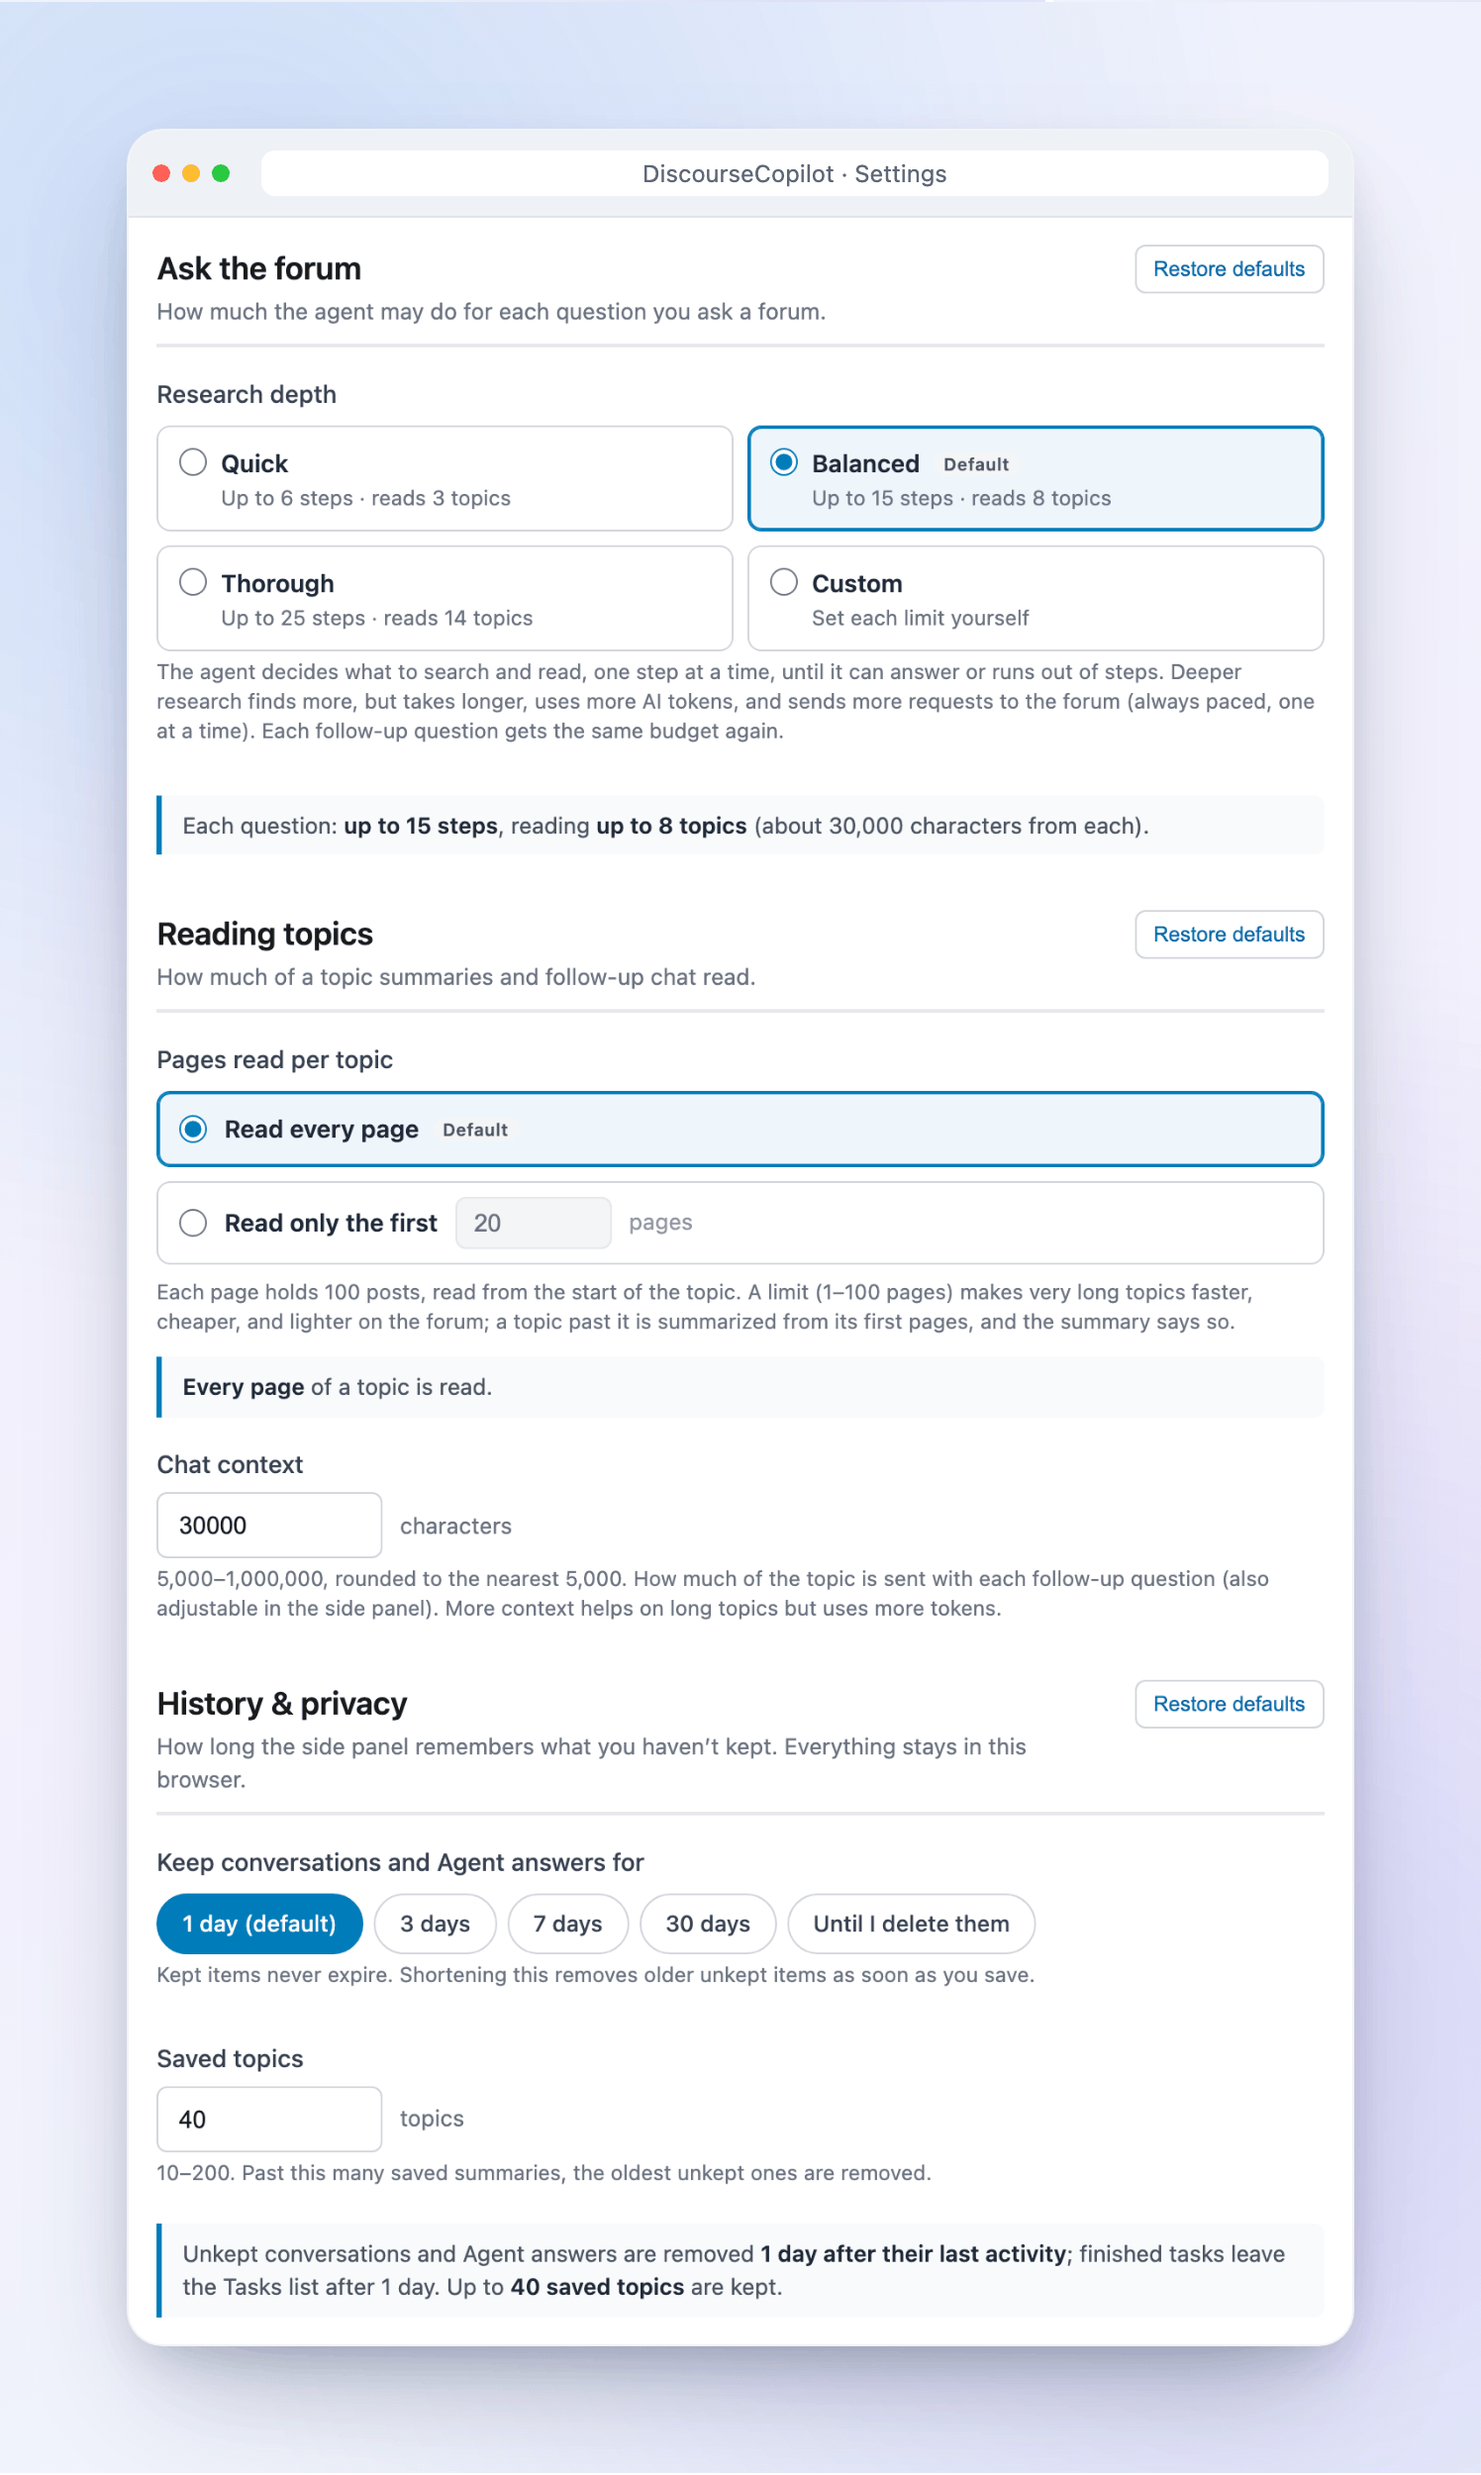
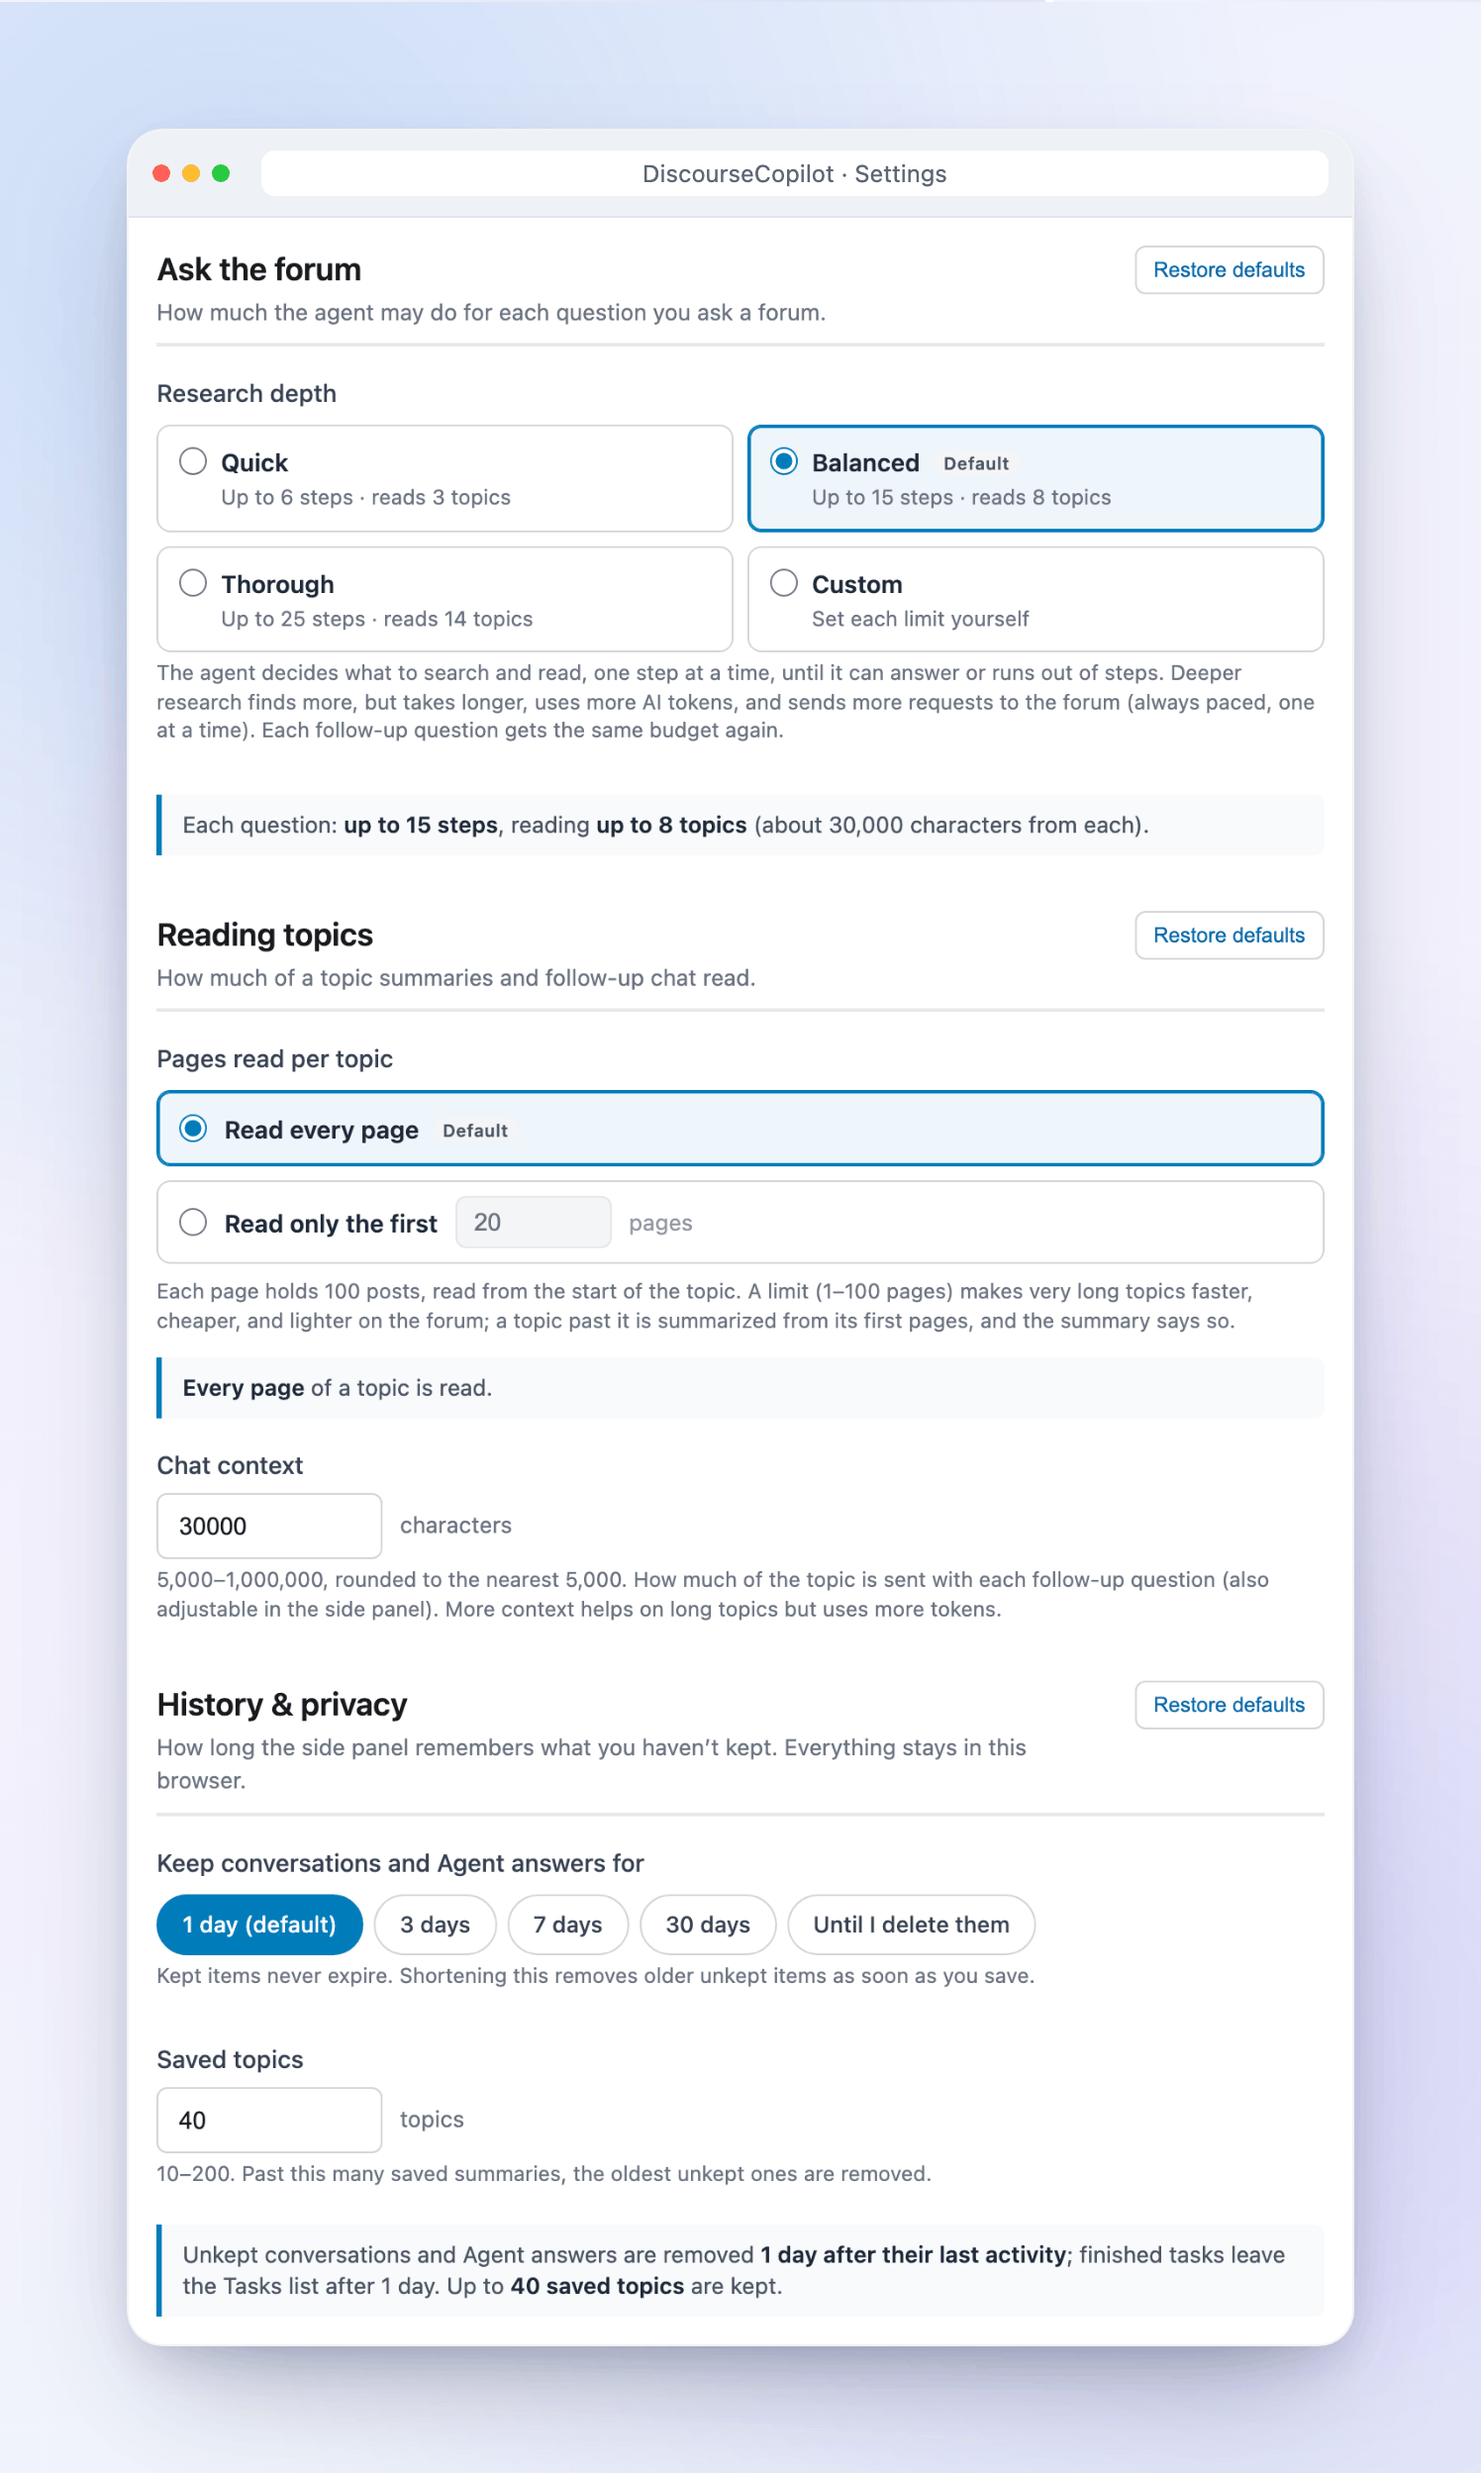
feat(setup): point to a free Gemini key from Google AI Studio
The side panel setup card and Settings → AI provider say "No API key?"
and link to aistudio.google.com/apikey; the click also switches the form
to Gemini. A note mentions the free tier's limits and that Google may use
free-tier prompts to improve its products.

diff --git a/src/settings/settings.html b/src/settings/settings.html
@@ -378,6 +378,24 @@
       margin-top: 4px;
       line-height: 1.4;
     }
+
+    .free-key-hint {
+      margin-top: 8px;
+      color: var(--s-label);
+    }
+
+    .free-key-hint.hidden {
+      display: none;
+    }
+
+    .free-key-hint a {
+      font-weight: 600;
+    }
+
+    .free-key-note {
+      display: block;
+      color: var(--s-muted);
+    }
     
     .status {
       padding: 12px 16px;
@@ -1382,6 +1400,10 @@
             <option value="deepseek">DeepSeek</option>
             <option value="lmstudio">LM Studio (Local)</option>
           </select>
+          <div id="freeKeyHint" class="help-text free-key-hint">
+            <span data-i18n="setup.freeKey.prompt">No API key?</span> <a data-i18n="setup.freeKey.link" id="freeKeyLink" href="https://aistudio.google.com/apikey" target="_blank" rel="noopener noreferrer">Get a free Gemini key from Google AI Studio</a>
+            <span class="free-key-note" data-i18n="setup.freeKey.note">The free tier has usage limits, and Google may use free-tier prompts to improve its products.</span>
+          </div>
         </div>
         
         <!-- OpenRouter Config -->
@@ -1457,7 +1479,7 @@
           <div class="form-group">
             <label for="geminiApiKey" class="step-label" data-step="2">Google Gemini <span data-i18n="settings.provider.apiKeySuffix">API Key:</span></label>
             <input type="password" id="geminiApiKey" placeholder="AIza..." autocomplete="off" spellcheck="false">
-            <div class="help-text"><span data-i18n="settings.provider.getKeyFrom">Get your API key from</span> <a href="https://aistudio.google.com/app/apikey" target="_blank" rel="noopener noreferrer" data-provider-link="gemini">Google AI Studio</a></div>
+            <div class="help-text"><span data-i18n="settings.provider.getKeyFrom">Get your API key from</span> <a href="https://aistudio.google.com/apikey" target="_blank" rel="noopener noreferrer" data-provider-link="gemini">Google AI Studio</a></div>
           </div>
           <div class="form-group">
             <label for="geminiModel" class="step-label" data-step="3" data-i18n="settings.model.label">Model:</label>

diff --git a/src/popup/popup.html b/src/popup/popup.html
@@ -120,6 +120,10 @@
             <select id="setupMoreProviders" class="setup-more-select">
               <option data-i18n="popup.setup.moreProvidersEllipsis" value="">More providers…</option>
             </select>
+            <div id="setupFreeKey" class="free-key-hint">
+              <p><span data-i18n="setup.freeKey.prompt">No API key?</span> <a data-i18n="setup.freeKey.link" id="setupFreeKeyLink" href="https://aistudio.google.com/apikey" target="_blank" rel="noopener noreferrer">Get a free Gemini key from Google AI Studio</a></p>
+              <small data-i18n="setup.freeKey.note">The free tier has usage limits, and Google may use free-tier prompts to improve its products.</small>
+            </div>
           </fieldset>
 
           <div id="setupDetails" class="setup-details hidden">

diff --git a/src/popup/popup.css b/src/popup/popup.css
@@ -2219,6 +2219,30 @@ details[open] > summary .chevron {
     font-size: 0.74rem;
 }
 
+/* "No API key?" pointer to a free Gemini key, under the provider choices. */
+.free-key-hint {
+    margin-top: 0.55rem;
+    font-size: 0.74rem;
+    line-height: 1.4;
+}
+
+.free-key-hint p {
+    margin: 0;
+    color: var(--uc-text);
+}
+
+.free-key-hint a {
+    color: var(--uc-accent-strong);
+    font-weight: 700;
+}
+
+.free-key-hint small {
+    display: block;
+    margin-top: 0.15rem;
+    color: var(--uc-muted);
+    font-size: 0.68rem;
+}
+
 .setup-card select.setup-more-select.has-value {
     border-color: var(--uc-accent);
     color: var(--uc-accent-strong);

diff --git a/src/settings/settings.js b/src/settings/settings.js
@@ -260,6 +260,15 @@ class DiscourseCopilotSettings {
       void this.provider.loadModels(this.currentProvider);
     });
 
+    // Opens AI Studio in a new tab and switches the form to Gemini, ready
+    // for the key.
+    $('freeKeyLink').addEventListener('click', () => {
+      const select = $('providerSelect');
+      if (select.value === 'gemini') return;
+      select.value = 'gemini';
+      select.dispatchEvent(new Event('change'));
+    });
+
     $('responseLanguage').addEventListener('change', event => {
       this.store.updateDraft({ responseLanguage: event.target.value });
       this.dispatch({ type: 'edited', clearStatus: true });

diff --git a/README.zh-CN.md b/README.zh-CN.md
@@ -87,7 +87,7 @@ DiscourseCopilot 的设计原则是：你看了什么，只有你自己知道。
 </details>
 
 **2. 连接一个 AI 服务商。**
-点 DiscourseCopilot 图标打开侧边栏。设置卡片会让你选服务商、粘贴 API key、选模型（会根据服务商当前提供的模型自动推荐一个，通常是又快又便宜的那种）。不知道选哪个，可以看[选择 AI 服务商](#选择-ai-服务商)。
+点 DiscourseCopilot 图标打开侧边栏。设置卡片会让你选服务商、粘贴 API key、选模型（会根据服务商当前提供的模型自动推荐一个，通常是又快又便宜的那种）。不知道选哪个，可以看[选择 AI 服务商](#选择-ai-服务商)。**没有 API key？** 去 [Google AI Studio](https://aistudio.google.com/apikey) 一分钟就能免费拿到一个 Gemini key，设置卡片里也有链接。免费额度有用量限制，Google 可能会用免费版的请求内容改进其产品。
 
 **3. 打开一个论坛帖子，授权访问，然后点“总结贴文”。**
 打开任意 Discourse 论坛的帖子（如果需要登录，先登录），点 DiscourseCopilot 图标。第一次在某个论坛使用时，侧边栏会显示 **在 *论坛名* 上启用 DiscourseCopilot**：点 **允许访问**，然后在 Chrome 弹窗里选 **允许**。之后点 **总结贴文** 就行。每个论坛只需要授权一次，之后论坛页面右下角也会出现 DiscourseCopilot 按钮。
@@ -159,7 +159,7 @@ DiscourseCopilot 不自带 AI。你可以连接一个已经在用的服务商，
 | OpenRouter | API key | 一个 key 就能用很多模型 |
 | OpenAI | API key | GPT 系列模型 |
 | Anthropic | API key | Claude 系列模型 |
-| Google Gemini | API key | Gemini 系列模型（Google AI Studio 有免费额度） |
+| Google Gemini | API key | Gemini 系列模型（[Google AI Studio](https://aistudio.google.com/apikey) 可免费获取 key，有用量限制） |
 | Groq | API key | 速度很快的开源模型 |
 | xAI | API key | Grok 系列模型 |
 | DeepSeek | API key | DeepSeek 系列模型 |

diff --git a/README.md b/README.md
@@ -88,7 +88,7 @@ An unpacked install is not updated automatically. To update it, download the new
 </details>
 
 **2. Connect an AI provider.**
-Click the DiscourseCopilot icon to open the side panel. A short setup card asks you to pick a provider, paste your API key, and pick a model (a recommended one from your provider's current list is filled in for you, usually a fast, low-cost model). See [Choosing an AI provider](#choosing-an-ai-provider) if you're not sure which to pick.
+Click the DiscourseCopilot icon to open the side panel. A short setup card asks you to pick a provider, paste your API key, and pick a model (a recommended one from your provider's current list is filled in for you, usually a fast, low-cost model). See [Choosing an AI provider](#choosing-an-ai-provider) if you're not sure which to pick. **No API key?** [Google AI Studio](https://aistudio.google.com/apikey) gives you a free Gemini key in a minute; the setup card links to it. The free tier has usage limits, and Google may use free-tier prompts to improve its products.
 
 **3. Open a forum topic, allow access, then Create summary.**
 Open any topic on a Discourse forum (log in first if it needs a login) and click the DiscourseCopilot icon. The first time you use a forum, the side panel shows **Allow DiscourseCopilot on *forum name***: click **Allow access**, then choose **Allow** when Chrome asks. Then click **Create summary**. Each forum asks only once, and after that the DiscourseCopilot button also appears in the corner of its pages.
@@ -158,7 +158,7 @@ DiscourseCopilot doesn't come with its own AI. You connect one you already use, 
 | OpenRouter | An API key | One key gives you many different models |
 | OpenAI | An API key | GPT models |
 | Anthropic | An API key | Claude models |
-| Google Gemini | An API key | Gemini models |
+| Google Gemini | An API key ([free from Google AI Studio](https://aistudio.google.com/apikey), with usage limits) | Gemini models |
 | Groq | An API key | Fast open models |
 | xAI | An API key | Grok models |
 | DeepSeek | An API key | DeepSeek models |

diff --git a/CHANGELOG.md b/CHANGELOG.md
@@ -14,6 +14,7 @@ Notable changes to DiscourseCopilot. The format follows [Keep a Changelog](https
 - Settings ends with a quiet "Star on GitHub · Rate it" line.
 - The interface is available in Simplified Chinese, chosen automatically from the browser language (summaries and answers still follow Settings → Response language).
 - A Chinese README (README.zh-CN.md) and an animated demo at the top of the README.
+- No API key? The setup card and Settings → AI provider link to Google AI Studio for a free Gemini key, and switch the form to Gemini so the key can be pasted straight in. The note says the free tier has usage limits and Google may use free-tier prompts to improve its products.
 
 ### Changed
 - The side panel keeps your attention on what matters: starting a chat question, an Ask the forum question or a follow-up opens that card and folds the others to a one-line header (for example "11 replies · saved 2m ago"), and a finished answer opens itself unless you moved on to something else. You can still open or close any card.
